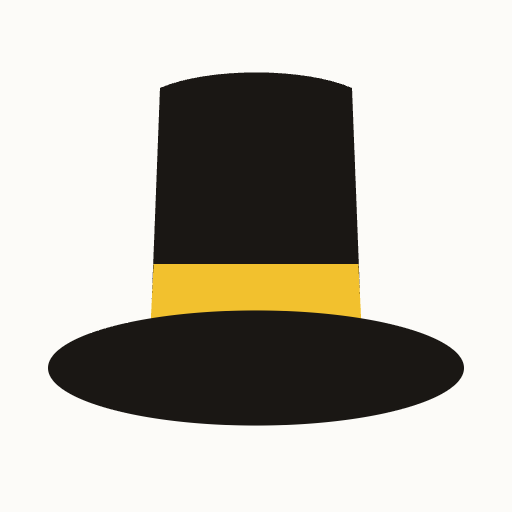
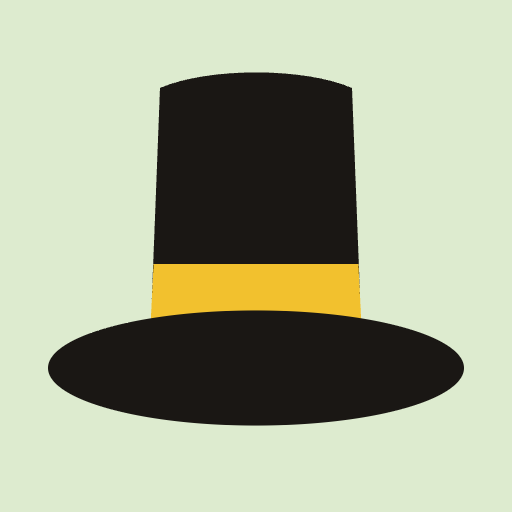
Paper colour: the pale green of Eye-Ease notebook paper
The page background (--paper) changes from warm white to #DDEBCF, after
the green-tinted Eye-Ease paper in National Brand notebooks. There is
no published colour code for that paper, so this is a match by eye,
kept light enough that the mustard accent text still passes the AA
contrast standard (4.6 to 1).

The same colour goes into the browser theme colour, the web manifest,
the favicon's ground, and regenerated app icons and share image. The
Mayor's characters keep white faces, which used to borrow the page
colour.

diff --git a/src/styles/tokens.css b/src/styles/tokens.css
@@ -8,14 +8,18 @@
 
 :root {
   /* Colour. These five are the whole palette; see CLAUDE.md. */
-  --paper: #FCFBF8;   /* clean newsprint: white with a little warmth */
+  /* The paper: the pale green of "Eye-Ease" ledger and notebook paper,
+     which was tinted to rest the eye. There is no published code for
+     that paper; this is a close match by eye, kept light enough that the
+     mustard accent text still meets the AA contrast standard on it. */
+  --paper: #DDEBCF;
   --ink: #1A1714;     /* near-black */
   --ink-soft: #4A443D;
   --rule: #2B2622;
   --accent: #F2C12E;  /* Wes Anderson yellow: for fills, strokes and underlines */
-  /* Yellow type on white paper cannot be read, so wherever the accent is
+  /* Yellow type on pale paper cannot be read, so wherever the accent is
      a colour for words or thin lines, this darker mustard is used. It
-     passes WCAG AA on the paper (5.5 to 1). */
+     passes WCAG AA on the paper (4.6 to 1 on the green paper; AA asks for 4.5). */
   --accent-text: #86600A;
   /* Highlighter-pen yellow: brighter and greener than the accent, as a
      real marker is. Only for the marker stroke (MarkerStroke.astro),

diff --git a/src/lib/games/mayor-figures.ts b/src/lib/games/mayor-figures.ts
@@ -15,7 +15,8 @@ export interface Traits {
 }
 
 const INK = 'var(--ink)';
-const PAPER = 'var(--paper)';
+// Faces and shirt fronts are white whatever colour the page is.
+const PAPER = '#FCFBF8';
 const ACCENT = 'var(--accent)';
 // Shorthand for the usual outline.
 const line = `stroke="${INK}" stroke-width="2" stroke-linejoin="round" stroke-linecap="round"`;

diff --git a/CLAUDE.md b/CLAUDE.md
@@ -92,7 +92,7 @@ Ask before adding any dependency not listed here.
 
 **Color tokens** (`src/styles/tokens.css`):
 ```css
---paper: #FCFBF8;   /* clean newsprint: white with a little warmth */
+--paper: #DDEBCF;   /* the pale green of Eye-Ease notebook paper (matched by eye) */
 --ink: #1A1714;     /* near-black */
 --ink-soft: #4A443D;
 --rule: #2B2622;
